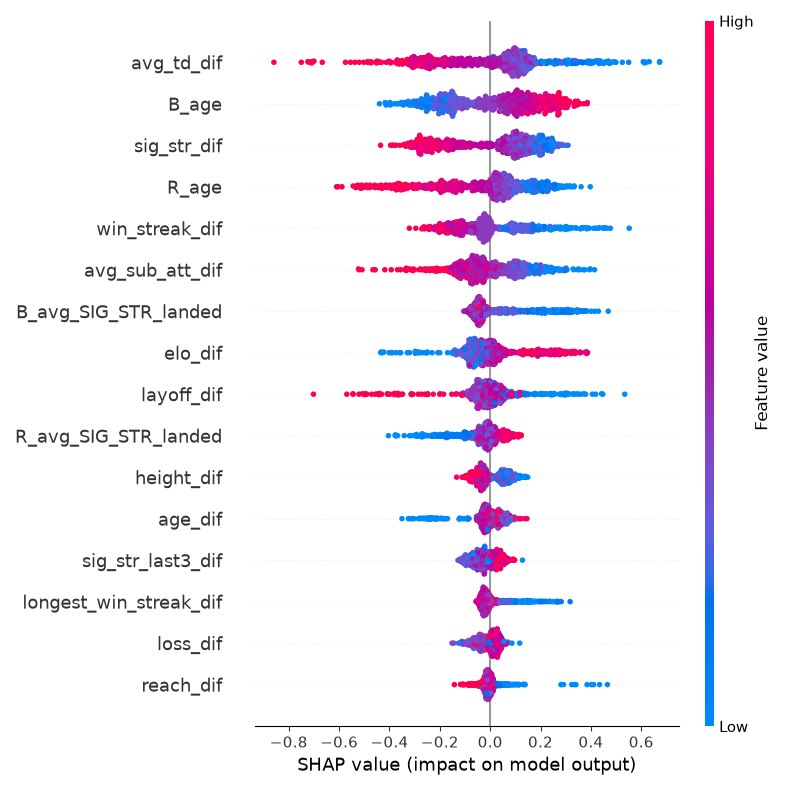
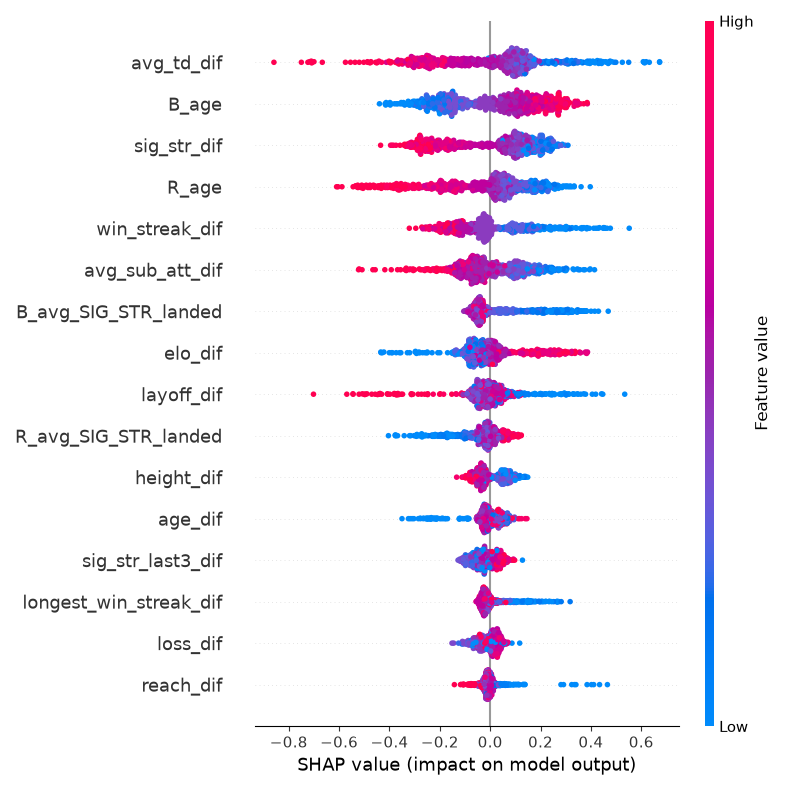
README updated

Changed region(s): [[0.5, 0.0608, 0.75, 0.881]]

diff --git a/README.md b/README.md
@@ -1,0 +1,63 @@
+UFC Matchup & Outcome Predictor
+
+A data-driven machine learning tool designed to analyze historical fight statistics, engineer advanced fighter performance metrics, and predict UFC fight outcomes using Python and SQL.
+
+Features
+
+Data Engineering & Storage: Processes raw fight datasets (ufc-master.csv) and structures data into a local SQLite database (db/ufc.db).
+
+Advanced Feature Engineering: Calculates dynamic metrics including historical win/loss streaks, striking/grappling differentials, and custom ELO rating systems.
+
+Machine Learning & Analysis: Trains predictive models to forecast bout winners and leverages SHAP (SHapley Additive exPlanations) for feature importance analysis.
+
+Modular Architecture: Clean separation of concerns across extraction (etl.py), feature generation (features.py), model training (train.py), evaluation (evaluate.py), and predictions (predict.py).
+
+Repository Structure
+
+├── data/
+│   ├── raw/
+│   └── processed/
+├── db/              # SQLite database storage
+├── docs/            # Project documentation and analysis reports
+├── models/          # Model artifacts
+├── notebooks/       # EDA and experimental notebooks
+├── reports/         # Visualizations (e.g., SHAP summary plots)
+├── sql/             # Database schemas and feature queries
+├── src/             # Core Python scripts (ETL, training, inference)
+├── .gitignore
+├── README.md
+└── requirements.txt
+
+
+Getting Started
+
+Prerequisites
+
+Clone the repository and install the required dependencies:
+
+git clone https://github.com/your-username/ufc-matchup-predictor.git
+cd ufc-matchup-predictor
+pip install -r requirements.txt
+
+
+Usage
+
+Run Pipeline & Predictions:
+
+python src/predict.py
+
+
+Train Models:
+
+python src/train.py
+
+
+Explore Notebooks:
+Launch Jupyter to view experimental data analysis and model evaluation:
+
+jupyter notebook notebooks/01_explore_data.ipynb
+
+
+License
+
+This project is open-source and available under the MIT License.
